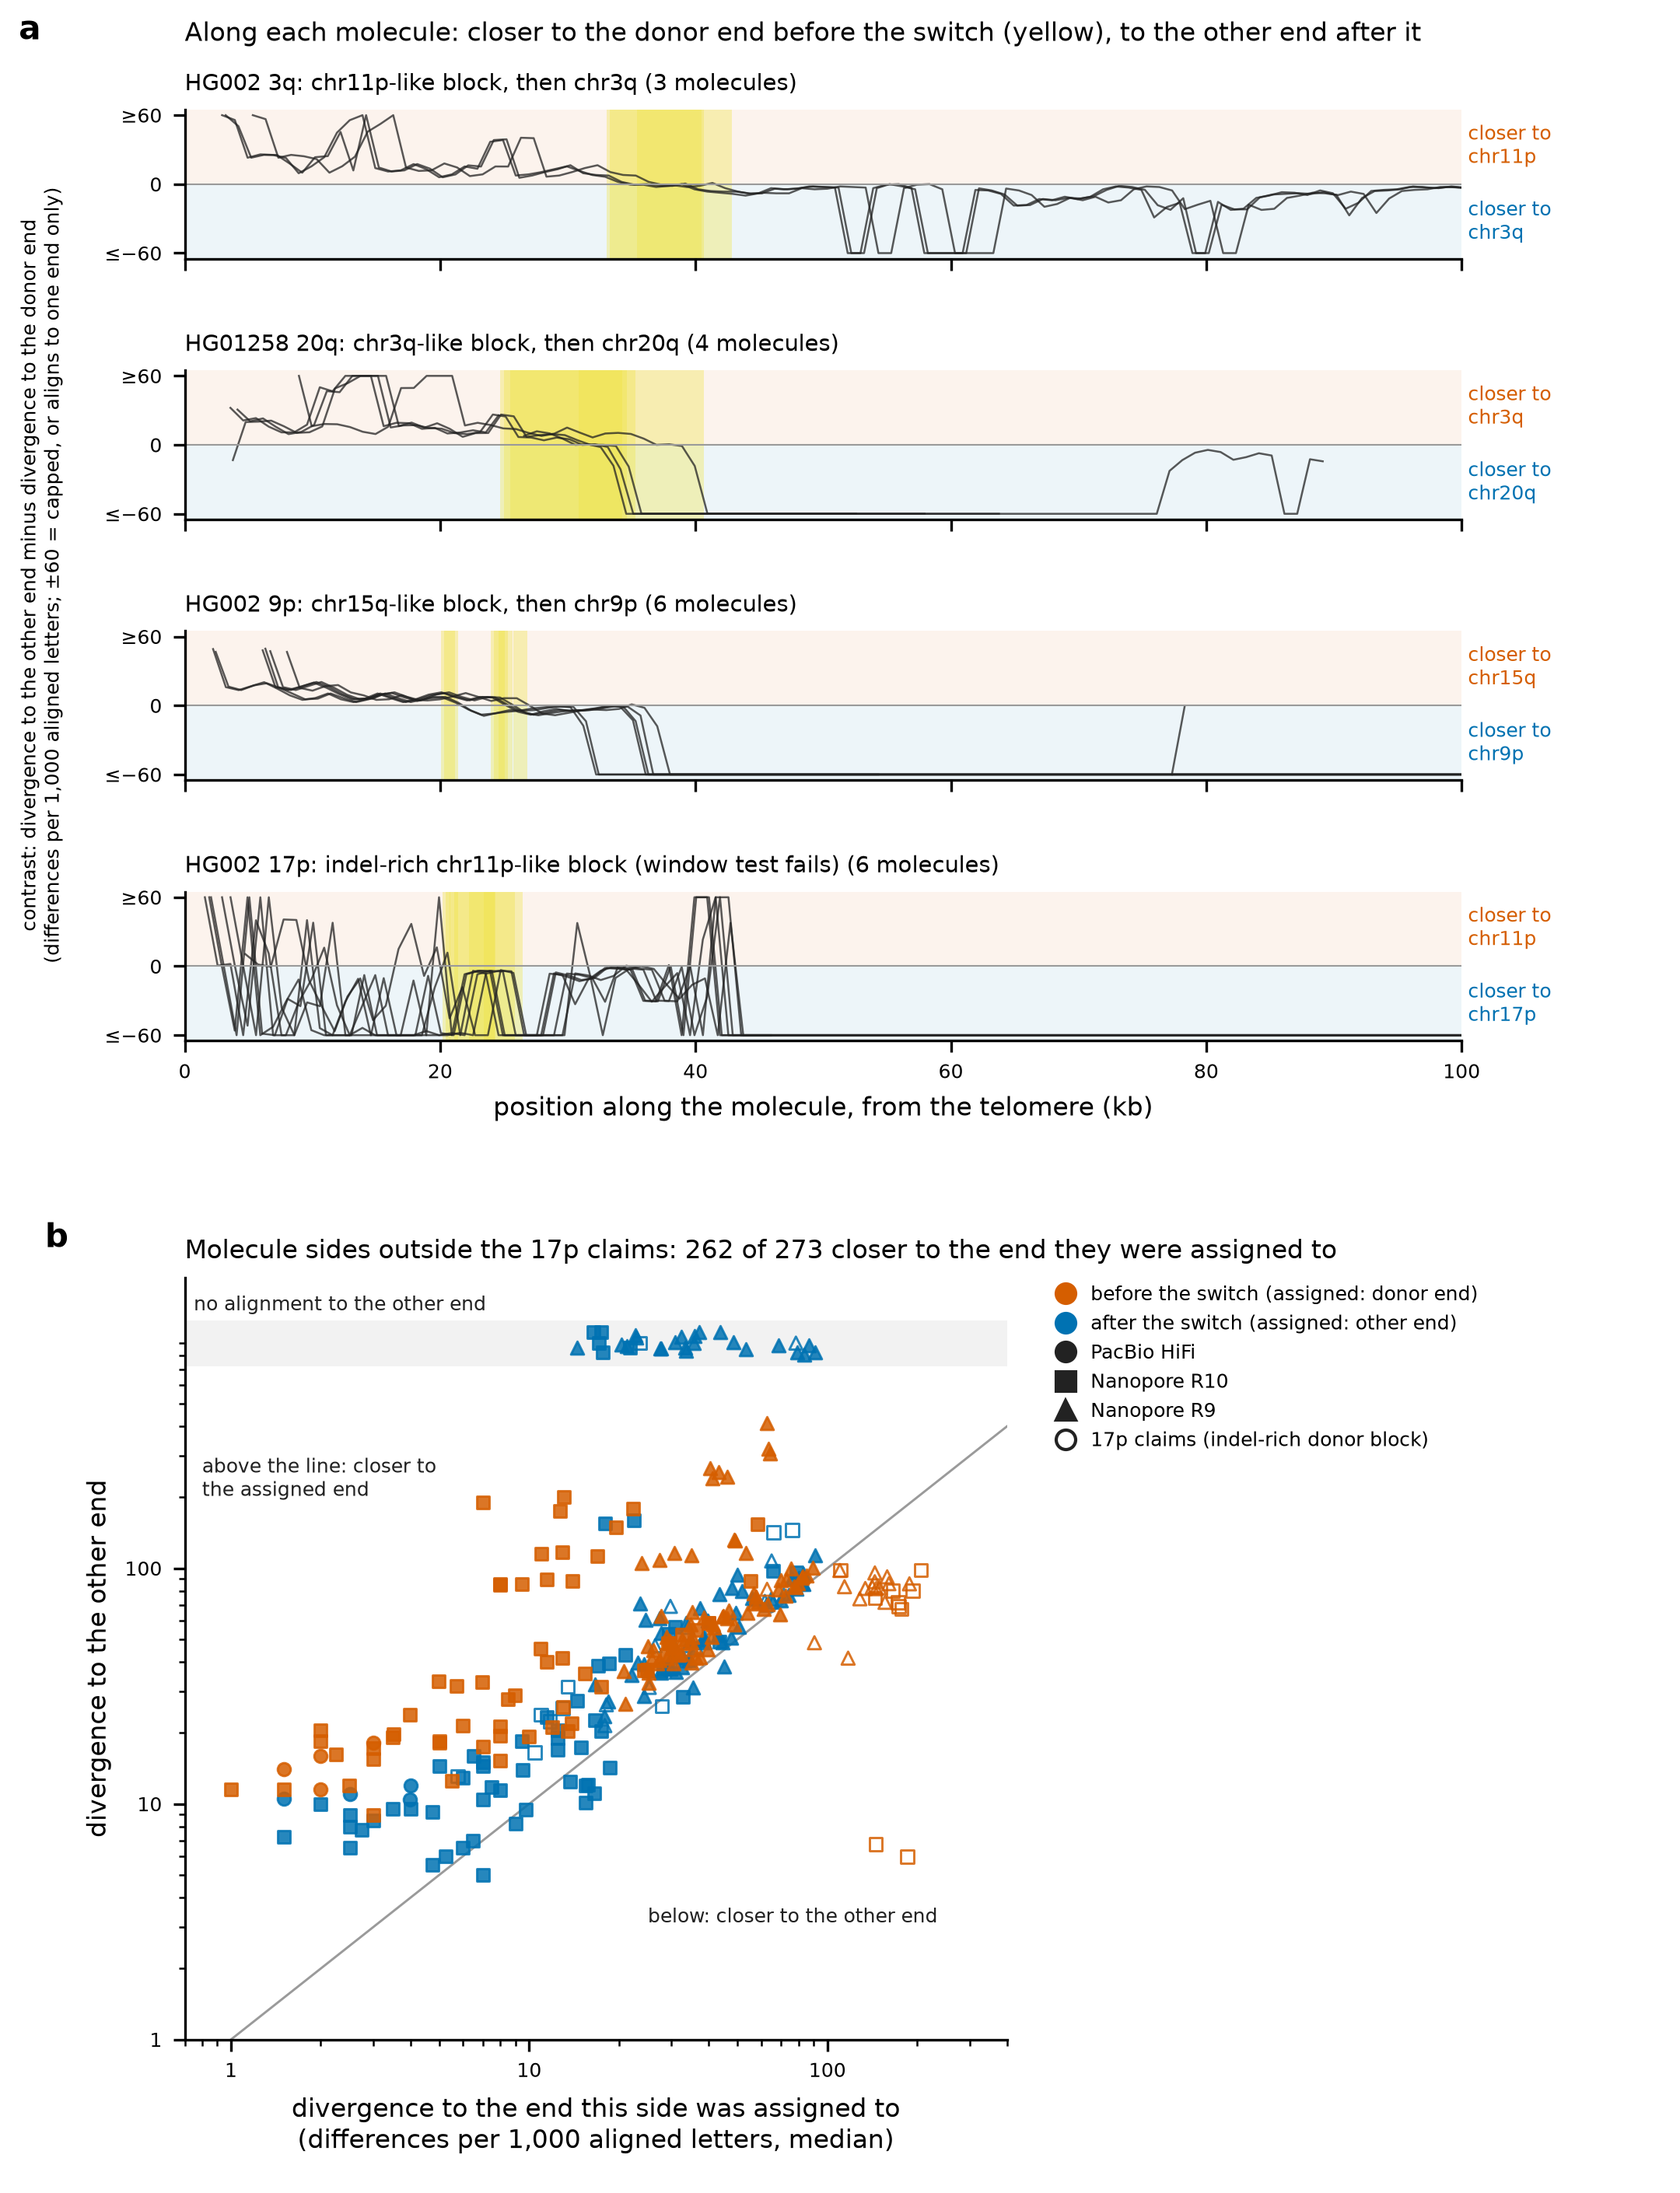
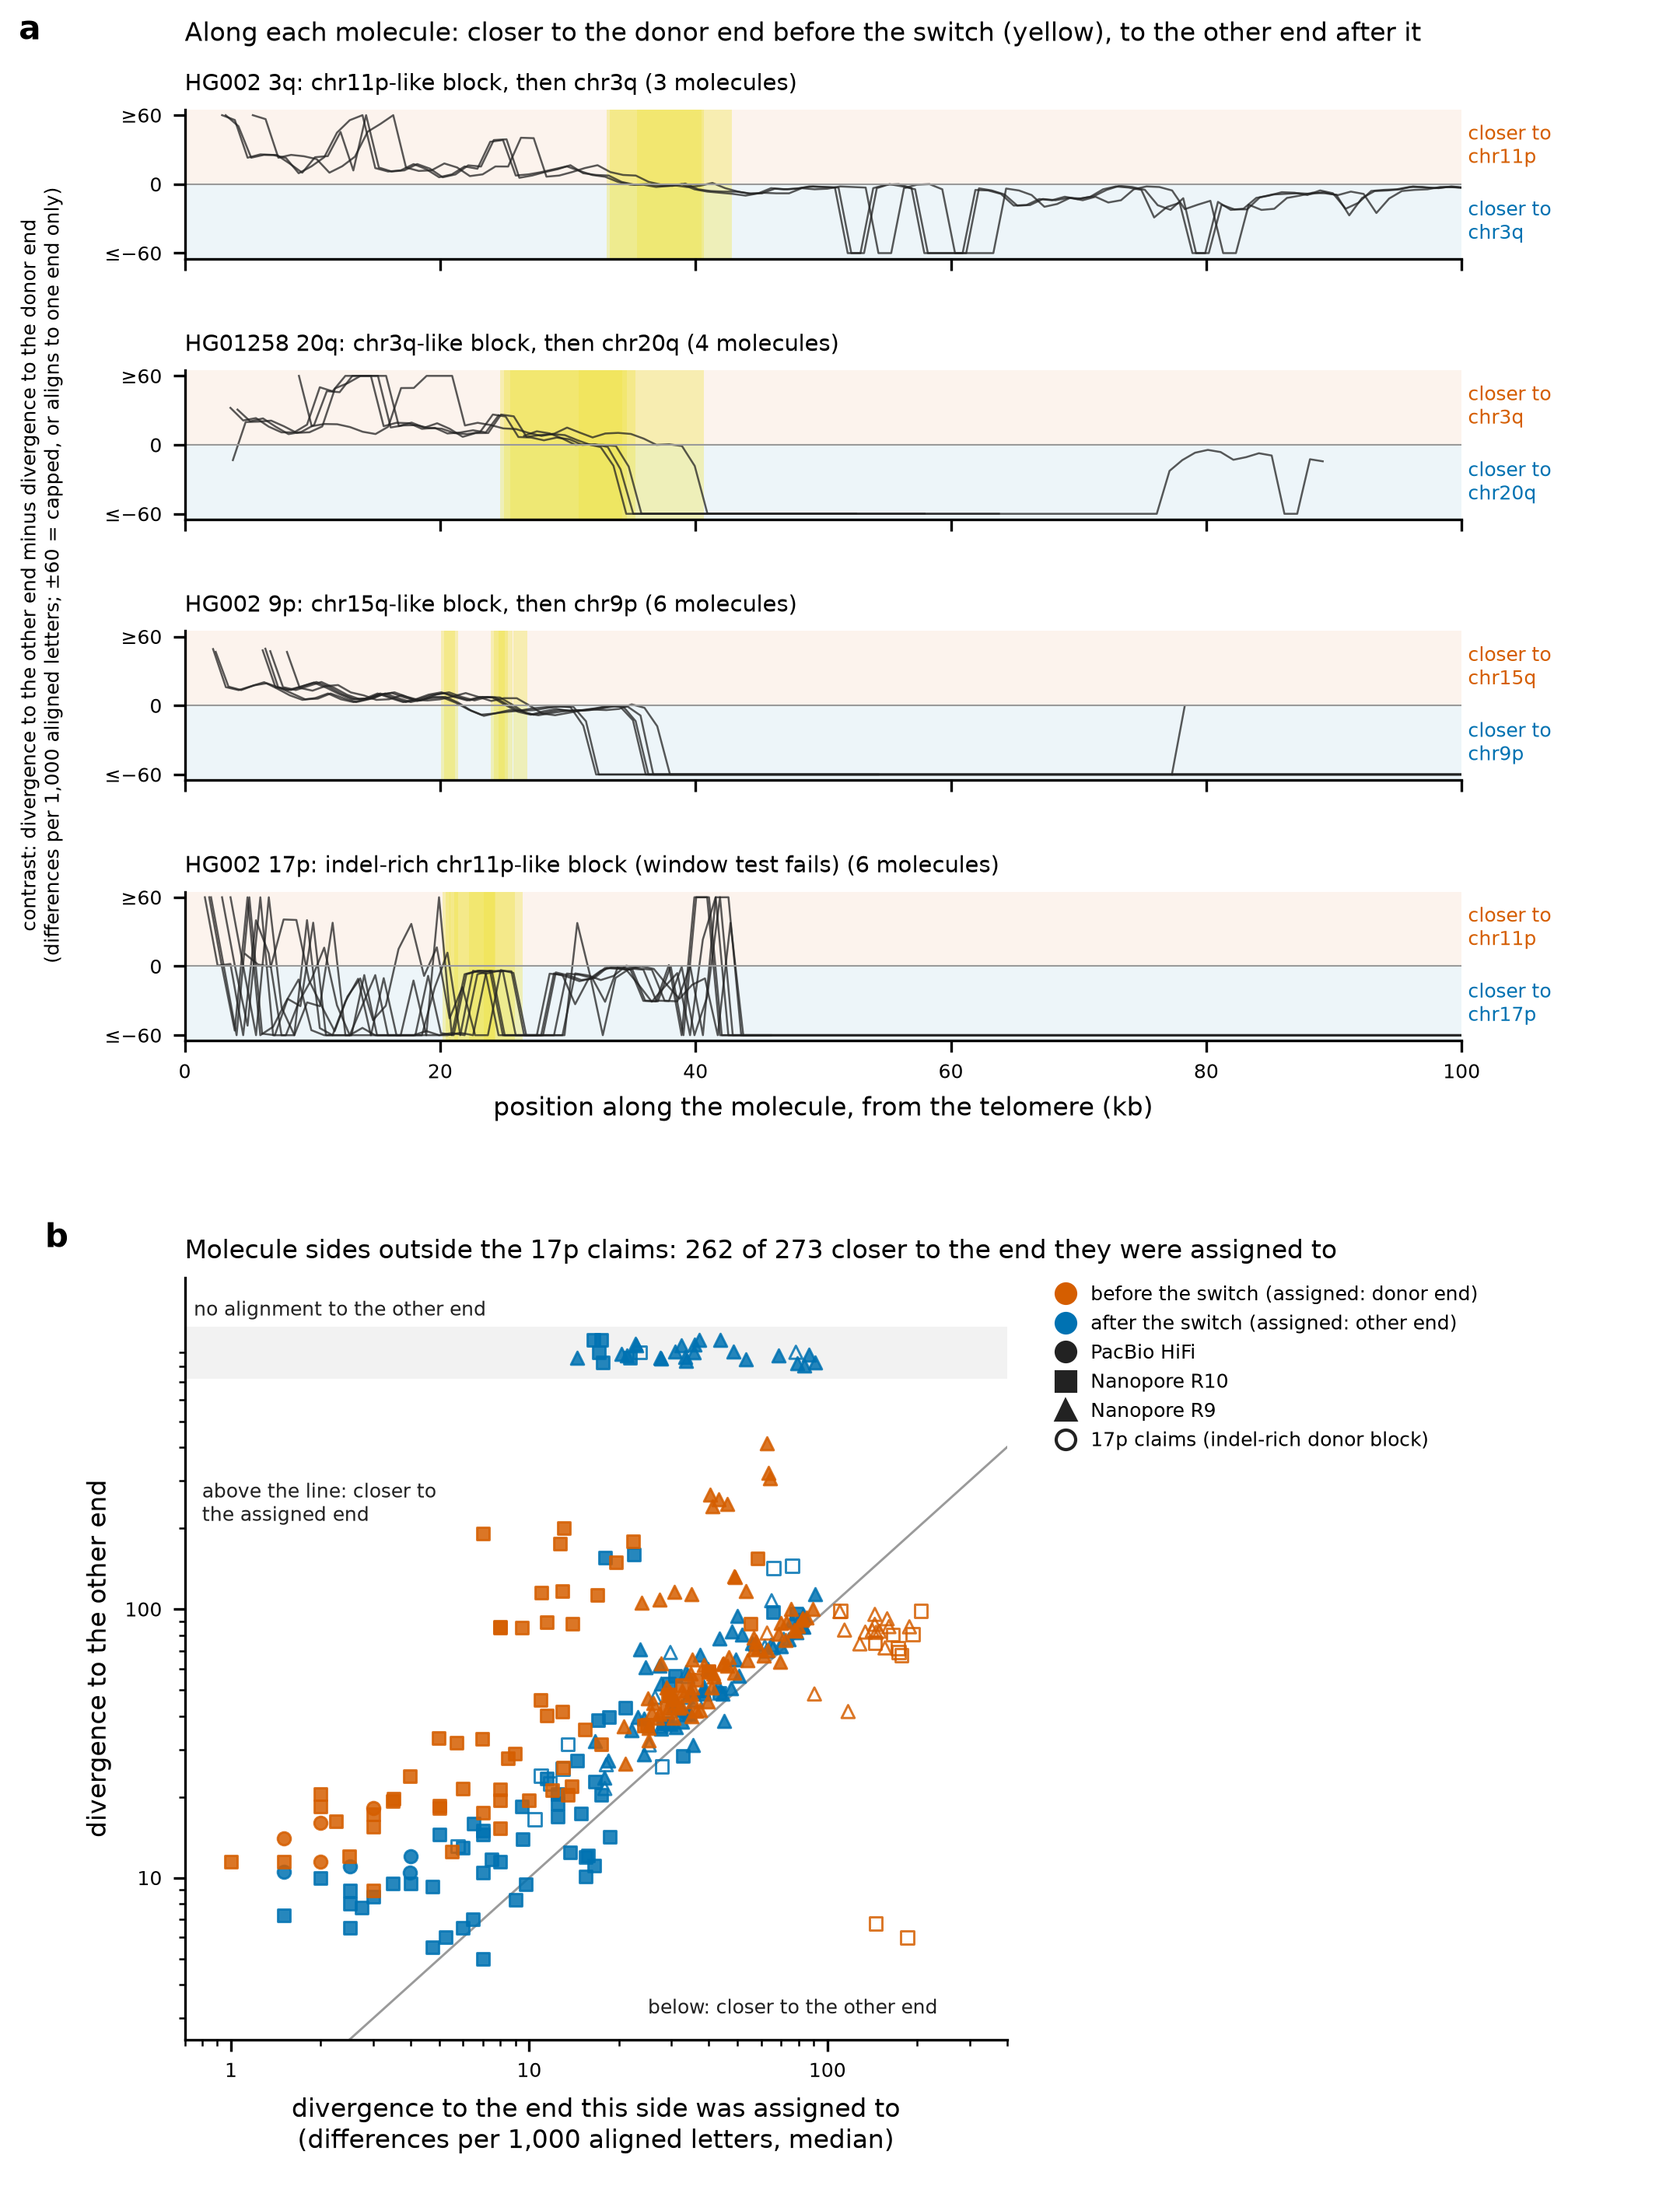
Alignment contrast figure: y range

diff --git a/report/pitch_alignment_contrast.py b/report/pitch_alignment_contrast.py
@@ -95,6 +95,7 @@ def main():
     lim = (0.7, 400); ax.plot(lim, lim, color=GREY, lw=0.7, zorder=1)
     ax.set_xscale('log'); ax.set_yscale('log'); ax.set_xlim(lim); ax.set_ylim(2.5, BAND * 1.9)
     tk = [1, 10, 100]; ax.set_xticks(tk); ax.set_yticks(tk); ax.set_xticklabels(['1', '10', '100']); ax.set_yticklabels(['1', '10', '100'])
+    ax.set_xlim(lim); ax.set_ylim(2.5, BAND * 1.9)
     ax.set_xlabel('divergence to the end this side was assigned to\n(differences per 1,000 aligned letters, median)')
     ax.set_ylabel('divergence to the other end')
     ax.text(0.8, 300, 'above the line: closer to\nthe assigned end', fontsize=6, color=TELO, va='top')
